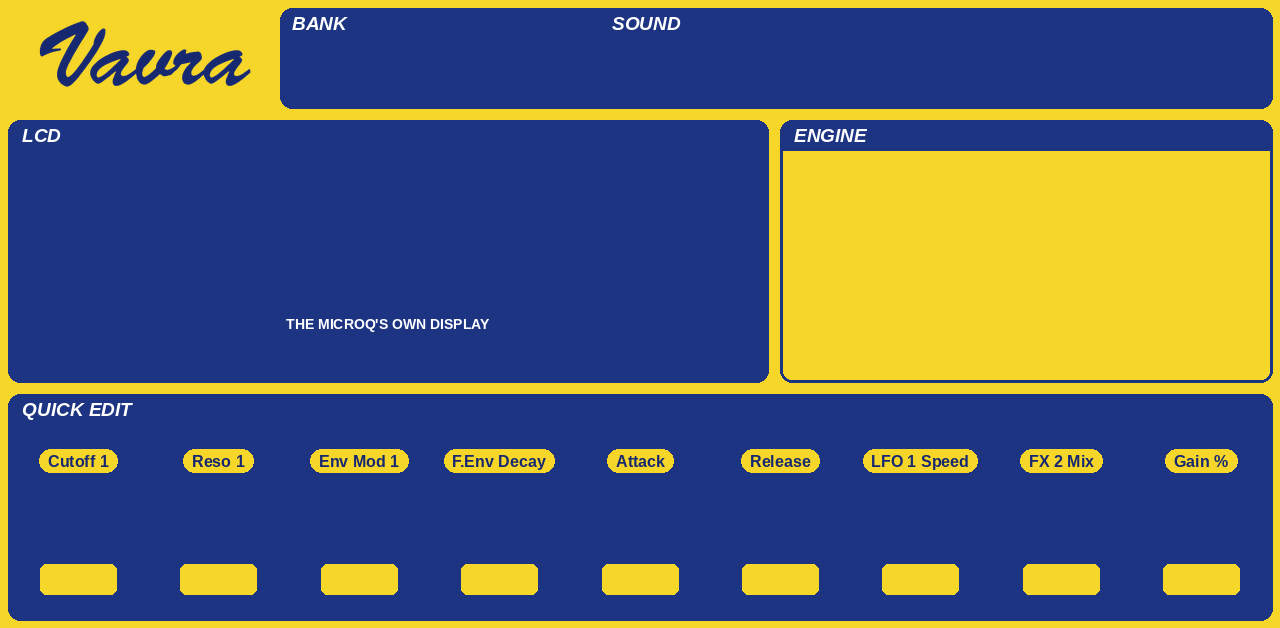
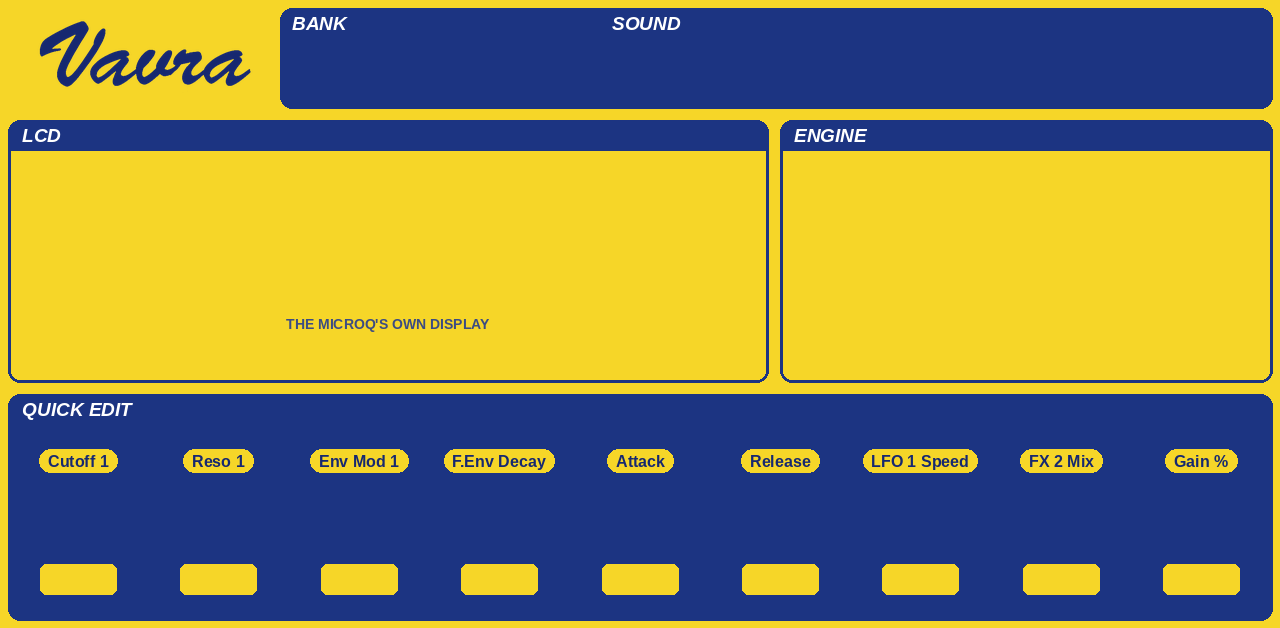
Skin: LCD panel framed again; only QUICK EDIT inverted
Claude-Session: https://claude.ai/code/session_01CpoP2q3VKQ5SkofMpVwNYz

Changed region(s): [[0.0, 0.242, 0.625, 0.6051]]

diff --git a/tools/make_skin.py b/tools/make_skin.py
@@ -196,10 +196,10 @@ def header(p):
 QUICK = ["F1Cutoff", "F1Resonance", "F1EnvMod", "FilterEnvDecay", "AmpEnvAttack", "AmpEnvRelease", "Lfo1Speed", "FX2Mix"]
 p = Page("MAIN", QUICK + ["gain"])
 header(p)
-p.panel(8, 120, 760, 262, "LCD", solid=True)
+p.panel(8, 120, 760, 262, "LCD")
 p.readout(388, 200, "lcd1", "", 620)
 p.readout(388, 262, "lcd2", "", 620)
-p.label(388, 316, "THE MICROQ'S OWN DISPLAY", 14, DIM if FLAT is None else INK)
+p.label(388, 316, "THE MICROQ'S OWN DISPLAY", 14, DIM)
 p.panel(780, 120, 492, 262, "ENGINE")
 p.readout(1026, 200, "loading_status", "", 460, "plain")
 p.readout(1026, 262, "engine_stats", "", 460, "plain")
